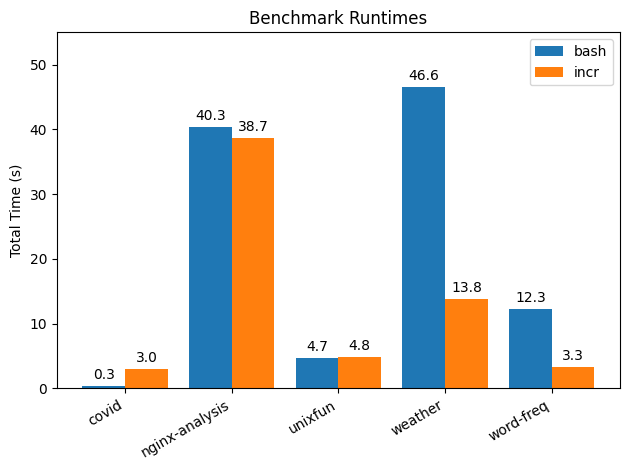
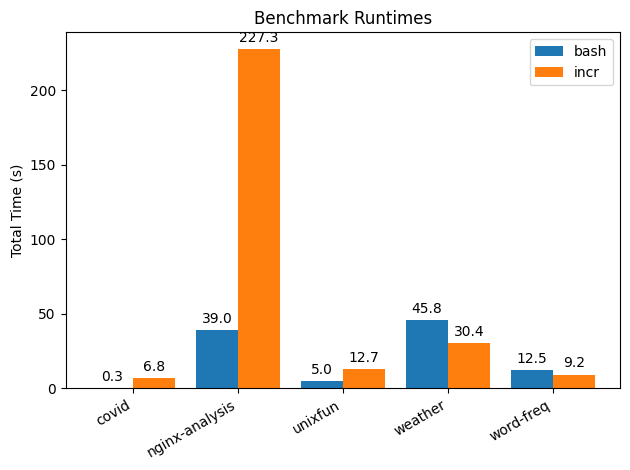
slow results

diff --git a/src/config.rs b/src/config.rs
@@ -96,26 +96,9 @@ pub(crate) const SKIP_COMMANDS: &[&str] = &[
     "tee", "test", "tr", "true", "xargs",
 ];
 
-pub(crate) const SKIP_CACHE_CONDITIONS: &[SkipCondition] = &[
-    SkipCondition::with_conditions("sort", &[], 0, 200),
-    SkipCondition::with_conditions("uniq", &[], 0, 200),
-];
-pub(crate) const SKIP_TRACE_CONDITIONS: &[SkipCondition] = &[
-    SkipCondition::with_conditions("sort", &["o", "output"], 0, usize::MAX),
-    SkipCondition::with_conditions("uniq", &["o", "output"], 0, usize::MAX),
-];
-pub(crate) const SKIP_SANDBOX_CONDITIONS: &[SkipCondition] = &[
-    SkipCondition::with_name("awk"),
-    SkipCondition::with_name("cmp"),
-    SkipCondition::with_name("comm"),
-    SkipCondition::with_name("cut"),
-    SkipCondition::with_name("diff"),
-    SkipCondition::with_name("grep"),
-    SkipCondition::with_name("join"),
-    SkipCondition::with_disallowed_flags("sort", &["o", "output"]),
-    SkipCondition::with_disallowed_flags("uniq", &["o", "output"]),
-    SkipCondition::with_name("wc"),
-];
+pub(crate) const SKIP_CACHE_CONDITIONS: &[SkipCondition] = &[];
+pub(crate) const SKIP_TRACE_CONDITIONS: &[SkipCondition] = &[];
+pub(crate) const SKIP_SANDBOX_CONDITIONS: &[SkipCondition] = &[];
 
 pub(crate) const EXCLUDED_VARIABLES: &[&str] = &[
     "GIT_ASKPASS",

diff --git a/evaluation/analysis/plot.py b/evaluation/analysis/plot.py
@@ -34,7 +34,7 @@ axes.set_title("Benchmark Runtimes")
 axes.set_xticks(locations)
 axes.set_xticklabels(BENCHMARKS, rotation=30, ha="right")
 axes.set_ylabel("Total Time (s)")
-axes.set_ylim(0, 55)
+#axes.set_ylim(0, 55)
 axes.bar_label(bash_bars, padding=3, fmt="%.1f")
 axes.bar_label(incr_bars, padding=3, fmt="%.1f")
 axes.legend()
